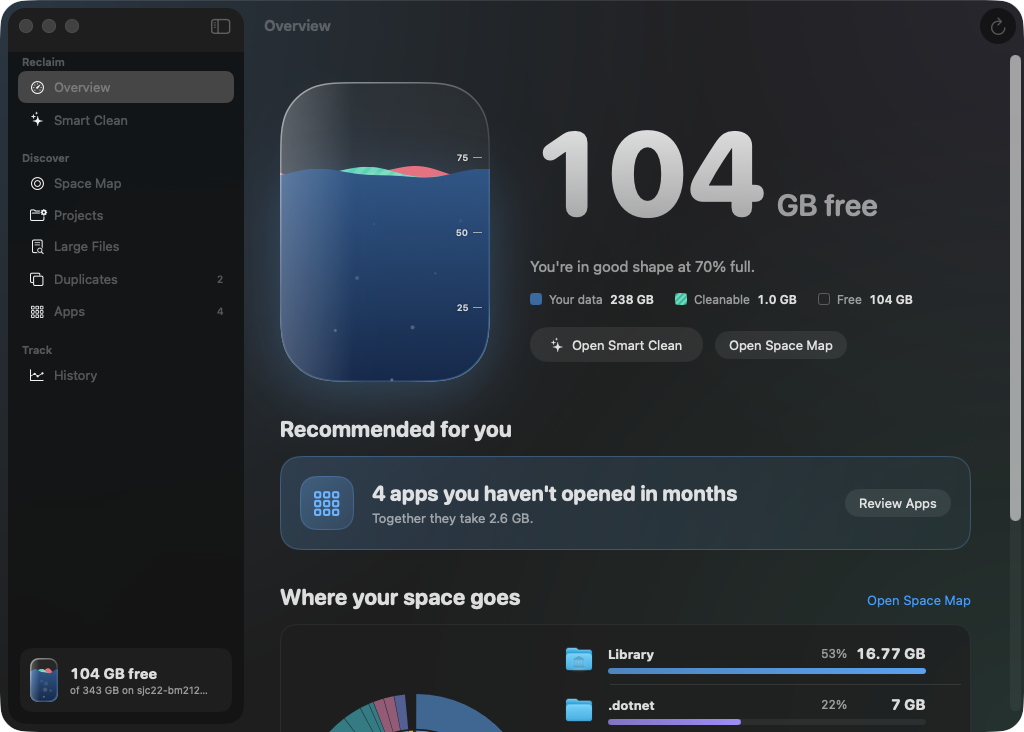
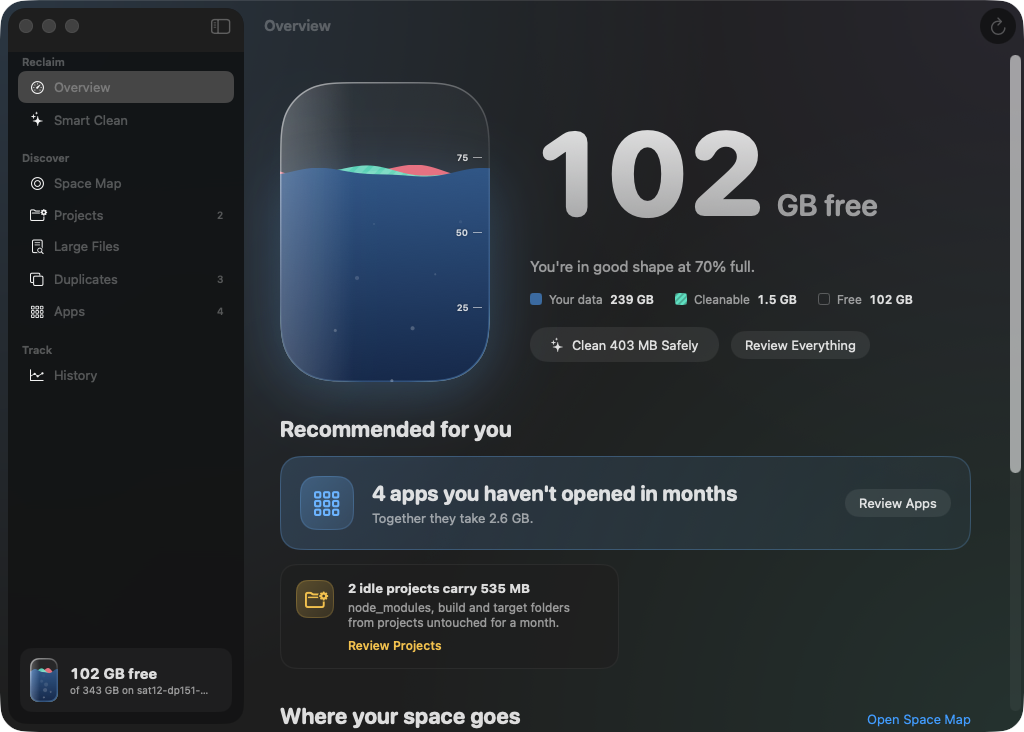
README: every feature with screenshots; small Projects polish
Rewrites the README around a full feature tour with fresh screenshots,
a table of what Smart Clean cleans, the rules behind each suggestion,
safety, install, shortcuts and development notes. Also adds the [app]
build step, lets Projects stat labels wrap, and stops artifact rows
repeating their own name.

Claude-Session: https://claude.ai/code/session_01NDBRRd62x9cHiXr3H445Zm

diff --git a/Sources/Reclaim/ProjectsView.swift b/Sources/Reclaim/ProjectsView.swift
@@ -141,7 +141,8 @@ struct StatTile: View {
                 Text(label)
                     .font(.callout)
                     .foregroundStyle(.secondary)
-                    .lineLimit(1)
+                    .lineLimit(2)
+                    .fixedSize(horizontal: false, vertical: true)
             }
             Spacer(minLength: 0)
         }
@@ -232,7 +233,8 @@ struct ArtifactRow: View {
             VStack(alignment: .leading, spacing: 2) {
                 Text(artifact.name)
                     .font(.system(.callout, design: .monospaced).weight(.semibold))
-                Text("\(artifact.kind.label). Rebuild with \(artifact.kind.rebuild).")
+                Text(artifact.kind.label == artifact.name ? "Rebuild with \(artifact.kind.rebuild)."
+                     : "\(artifact.kind.label). Rebuild with \(artifact.kind.rebuild).")
                     .font(.caption)
                     .foregroundStyle(.secondary)
             }

diff --git a/README.md b/README.md
@@ -1,42 +1,209 @@
 # Reclaim
 
-A native macOS app that shows what's filling your disk, explains it in plain language, and cleans it up safely.
+[![Build](https://github.com/whatron/reclaim/actions/workflows/build.yml/badge.svg)](https://github.com/whatron/reclaim/actions/workflows/build.yml)
+![macOS 14+](https://img.shields.io/badge/macOS-14%2B-blue)
+![Swift](https://img.shields.io/badge/SwiftUI-native-orange)
 
-Your disk is drawn as a glass vessel. Deep blue water is your data, the glowing mint shallows are what Reclaim can clear, coral is the Trash, and the air above is free space. Every cleanup drains the mint.
+**See what's filling your Mac, understand it, and get the space back safely.**
+
+Reclaim is a native SwiftUI app for people whose disk keeps filling up, especially developers with Docker images, AI models, `node_modules` and Xcode build data piling up in places Finder never shows. It measures everything, explains it in plain language, ranks what's worth clearing, and does the cleaning for you. Everything it removes goes to the Trash first.
 
 <p align="center">
-  <img src="docs/screenshots/overview-dark.png" width="49%" alt="Overview: the tide gauge, free space and ranked recommendations">
-  <img src="docs/screenshots/space-map-dark.png" width="49%" alt="Space Map: home folder as rings, with the inspector explaining Library">
+  <img src="docs/screenshots/overview-dark.png" alt="Reclaim's Overview: the tide gauge, 102 GB free, and ranked recommendations">
 </p>
+
+Your disk is drawn as a glass vessel. **Deep blue water** is your data, the **glowing mint shallows** are what Reclaim can clear, **coral** is the Trash, and the **air** above is free space. Every cleanup drains the mint.
+
+<p align="center"><sub>All screenshots were taken automatically on GitHub's macOS build machine, with a few demo code projects added, so the folders and apps shown are its own.</sub></p>
+
+---
+
+## Contents
+
+- [Features](#features)
+  - [Overview](#overview) · [Smart Clean](#smart-clean) · [Space Map](#space-map) · [Projects](#projects) · [Large Files](#large-files) · [Duplicates](#duplicates) · [Apps](#apps) · [History](#history-and-forecast) · [Menu bar and alerts](#menu-bar-and-alerts)
+- [How Reclaim decides](#how-reclaim-decides)
+- [Safety](#safety)
+- [Install](#install)
+- [Keyboard shortcuts](#keyboard-shortcuts)
+- [Development](#development)
+
+---
+
+## Features
+
+### Overview
+
+One screen that tells you where you stand.
+
+- **The tide gauge.** An animated vessel showing your data, what's cleanable, the Trash and free space. The water stays still if you turn on Reduce Motion.
+- **A plain summary**, such as *"You're in good shape at 70% full. The biggest cleanable item is Docker at 18 GB. You can safely reclaim 12 GB right now."*
+- **Recommended for you.** Suggestions ranked by how much space they'd free: idle projects, unused apps, old installers, unused AI models, the item that grew most this week, and when your disk will be full. Each comes with a one-click action.
+- **Where your space goes.** Your home folder's biggest items as mini rings and bars, each with a plain-language name.
+
+<p align="center"><img src="docs/screenshots/overview-light.png" width="70%" alt="Overview in light mode"></p>
+
+### Smart Clean
+
+One click clears everything that rebuilds itself.
+
+- Safe items over 50 MB are **ticked for you**. Anything that might still matter is grouped under *Worth a look* and never ticked automatically.
+- **A live bar** fills as you tick items, so you can see what you'll get back before you click.
+- **Growth badges** show how much an item grew or shrank in the past week.
+- A progress banner during the clean, a short celebration with the amount freed, and a lifetime total.
+- An option to empty the Trash afterwards. It asks you to type "empty" first.
+
 <p align="center">
-  <img src="docs/screenshots/smart-clean-light.png" width="49%" alt="Smart Clean: a live bar of everything ticked">
-  <img src="docs/screenshots/duplicates-dark.png" width="49%" alt="Duplicates: identical files with the copy to keep marked">
+  <img src="docs/screenshots/smart-clean-light.png" width="49%" alt="Smart Clean in light mode with the live bar">
+  <img src="docs/screenshots/smart-clean-dark.png" width="49%" alt="Smart Clean in dark mode">
 </p>
-<p align="center"><sub>Screenshots taken automatically on GitHub's macOS build machine, so the folders are its, not yours.</sub></p>
 
-## What it does
+What it knows how to clean:
 
-**Overview.** Free space at a glance, a one-sentence summary of where you stand, and recommendations ranked by how much space they'd free. Examples: "14 GB is safe to clear", "3 idle projects carry 9 GB", "Full in about 40 days".
+| Item | Where | How Reclaim cleans it | Ticked by default |
+| --- | --- | --- | --- |
+| Maven repository | `~/.m2/repository` | Moves contents to the Trash | Yes |
+| Gradle caches | `~/.gradle/caches` | Moves contents to the Trash | Yes |
+| npm cache | `~/.npm` | `npm cache clean --force` | Yes |
+| Go module cache | `~/go/pkg/mod` | `go clean -modcache` (Go makes these read-only) | Yes |
+| Homebrew leftovers | `~/Library/Caches/Homebrew` | `brew cleanup --prune=all` | Yes |
+| Xcode build data | `DerivedData` | Moves contents to the Trash | Yes |
+| iPhone debug symbols | `iOS DeviceSupport` | Moves contents to the Trash | Yes |
+| IntelliJ snapshots | `~/IdeaSnapshots` | Moves contents to the Trash | Yes |
+| Docker images and build cache | Colima or Docker Desktop disk | `docker system prune -af`, then `fstrim` inside Colima so the space actually comes back | No |
+| Ollama models | `~/.ollama/models` | `ollama rm`, model by model, with unused ones flagged | No |
+| App caches | `~/Library/Caches` | Moves contents to the Trash | No |
+| Command-line tool caches | `~/.cache` (pip, uv, Hugging Face…) | Moves contents to the Trash | No |
+| Unavailable simulators | `CoreSimulator` | `xcrun simctl delete unavailable` | No |
+| Trash | `~/.Trash` | Empties it after you type "empty" | No |
 
-**Smart Clean.** Caches and build output that rebuild themselves are ticked for you, and one click cleans them all. Items worth a closer look (Docker, Ollama models, app caches, simulators) are kept separate and never ticked automatically. Each row shows how much it grew this week.
+Items whose folders don't exist on your Mac are hidden, and an item whose tool isn't installed says so.
 
-**Space Map.** Your home folder as interactive rings, or as blocks if you prefer. Hover to identify anything, click to select it, and double-click to dive in. The inspector explains common folders (".colima is the VM behind Docker", "keep your Photos library") and says whether each one is safe to clear.
+### Space Map
 
-**Projects.** Finds `node_modules`, `target`, `build`, `.venv`, `Pods`, `.next` and friends inside your code projects. Projects you haven't touched for a month, judged by file and git activity, are ticked, and each folder shows the command that rebuilds it.
+Your home folder as interactive **rings** or **blocks**.
 
-**Large Files.** Everything over 100 MB, filed by type (videos, installers, archives, disk images), with when you last opened it. It flags installers and archives that are just sitting in Downloads.
+- **Two rings deep.** The inner ring is each folder in the current location, the outer ring is what's inside them, and big arcs are labelled.
+- **Hover** to identify anything, **click** to select, **double-click** to dive in, and click the **centre** to go back up.
+- **Mint** areas are things Smart Clean can clear.
+- **The inspector** explains what a folder is, whether it's safe to clear, and what's biggest inside, with buttons to open it, show it in Finder or move it to the Trash.
 
-**Duplicates.** Finds true copies by comparing contents (SHA-256), not names. It suggests which copy to keep and always leaves at least one.
+<p align="center">
+  <img src="docs/screenshots/space-map-rings.png" width="49%" alt="Space Map rings with the inspector">
+  <img src="docs/screenshots/space-map-blocks.png" width="49%" alt="Space Map blocks view">
+</p>
 
-**Apps.** Third-party apps by size and when you last opened them, with the ones you haven't used in three months picked out.
+Reclaim explains folders like `.colima` (the VM behind Docker), Docker Desktop's disk, `.m2`, `.gradle`, `.npm`, Go modules, Hugging Face models, `node_modules`, `.venv`, DerivedData, iPhone backups, iCloud Drive, Mail, Messages, your Photos library, Downloads and installers. Each one is marked *Safe to clear*, *Look before deleting* or *Keep*.
 
-**History.** An hourly record of free space, a forecast of when your disk fills up, what grew this week, and a log of every cleanup with the commands it ran.
+### Projects
 
-**Menu bar.** Free space at a glance and the top recommendation. Reclaim can warn you when space runs low.
+Finds forgotten dependencies and build output in your code.
 
-## Build and run
+- Scans your home folder for code projects and the folders they can rebuild.
+- A project you haven't touched in **30 days**, judged by its own files and its git activity, is marked *Idle* and ticked.
+- Each folder shows **the command that rebuilds it**, so nothing is a mystery.
 
-You need macOS 14 or later and Apple's developer tools (Xcode 16 or later, or the Command Line Tools).
+<p align="center"><img src="docs/screenshots/projects-dark.png" width="70%" alt="Projects with two idle projects ticked"></p>
+
+| Ecosystem | Folders |
+| --- | --- |
+| JavaScript / TypeScript | `node_modules`, `.next`, `.nuxt`, `.svelte-kit`, `.turbo`, `.angular`, `.parcel-cache` |
+| Rust | `target` (next to `Cargo.toml`) |
+| Java / Kotlin | Maven `target`, Gradle `build` and `.gradle` |
+| Scala | sbt `target` |
+| Python | `.venv`, `venv` (with `pyvenv.cfg`) |
+| iOS | CocoaPods `Pods` |
+| Flutter / Dart | `build`, `.dart_tool` |
+| C / C++ | CMake `build` |
+| .NET | `bin`, `obj` |
+| Terraform | `.terraform` |
+
+A folder only counts when it sits next to the file that proves it's a build folder (`package.json`, `Cargo.toml`, `pom.xml` and so on). A random folder named `build` is left alone.
+
+### Large Files
+
+Every file over **100 MB** in your home folder, found instantly with Spotlight.
+
+- Filter by **type**: videos, installers, archives, disk images, audio or other.
+- See **when you last opened it** ("never opened", "opened 3 days ago"), and sort by longest unopened.
+- **Smart notes** flag installers and archives sitting in Downloads, and files unopened for a year or more.
+- Tick several and move them to the Trash in one go.
+
+<p align="center"><img src="docs/screenshots/large-files-light.png" width="70%" alt="Large Files"></p>
+
+### Duplicates
+
+Finds **true copies** by comparing contents, not names.
+
+- Files of 20 MB or more are compared in three steps: same size, then the same first and last 64 KB, then the same SHA-256 hash.
+- For each set it suggests **which copy to keep**: the one outside Downloads, with the cleanest name (no "copy" or "(1)"), and the oldest.
+- It **always leaves at least one copy**, even if you tick them all.
+- It skips Library, `node_modules`, `.git` and the insides of app bundles and photo libraries.
+
+<p align="center"><img src="docs/screenshots/duplicates-dark.png" width="70%" alt="Duplicates with the copy to keep marked"></p>
+
+### Apps
+
+Your third-party apps by size and **when you last opened them**.
+
+- Apps over 100 MB that you haven't opened in **90 days** are flagged as unused, and one click ticks them all.
+- Apple's own apps aren't listed and can't be moved.
+- Your settings stay in Library, so reinstalling an app picks up where you left off.
+
+<p align="center"><img src="docs/screenshots/apps-light.png" width="70%" alt="Apps"></p>
+
+### History and forecast
+
+- Reclaim records free space **every hour** while it's running, including from the menu bar. It keeps two weeks of hourly readings and one per day for a year.
+- **A chart** of free space over time. Hover to read any point.
+- **A forecast.** A trend line over the last two weeks predicts the date your disk will be full.
+- **What changed this week**: every item that grew or shrank by more than 100 MB.
+- **An activity log** of every cleanup, with the exact output of each command it ran.
+
+### Menu bar and alerts
+
+- **The menu bar** shows free space. Click it for a panel with a mini gauge, the top recommendation, rescan, settings and quit.
+- **Low-space alerts** notify you when free space drops below 15 GB or 7%, at most once every six hours.
+- Close the window and Reclaim keeps watching from the menu bar. You can turn both off in Settings (⌘,).
+
+---
+
+## How Reclaim decides
+
+| Signal | Rule |
+| --- | --- |
+| Ticked in Smart Clean | Rebuilds itself, over 50 MB, and its tool is installed |
+| Idle project | No change to its own files or git for 30 days |
+| Unused app | Over 100 MB and not opened for 90 days (Spotlight's last-used date) |
+| Unused Ollama model | Not modified for 60 days |
+| Old installer | A `.dmg`, `.pkg` or similar, unopened for two weeks |
+| Growth badge | Changed by 100 MB or more since about a week ago |
+| Forecast | Least-squares trend of free space over 14 days, shown when the disk is shrinking by 50 MB a day or more |
+| Low-space alert | Under 15 GB or 7% free |
+
+Recommendations are ranked by the space they'd free. Warnings, such as a forecast that the disk will be full within 90 days, get a boost.
+
+## Safety
+
+- **Everything goes to the Trash first**, the same way Finder sends it, so **Put Back** works.
+- **Emptying the Trash** is the only permanent action, and you have to type "empty" to confirm it.
+- **A fixed set of commands.** Reclaim only runs these: `docker system prune -af` (volumes are kept), `colima ssh -- sudo fstrim -a`, `npm cache clean --force`, `go clean -modcache`, `brew cleanup --prune=all`, `xcrun simctl delete unavailable` and `ollama rm <model>`. Running a cleanup on its own shows the exact command before anything happens.
+- **Protected locations.** Your home folder, Library, Documents, Desktop, Downloads, Pictures, Movies and Music folders themselves, iCloud Drive, Mail, Messages, keychains, credential folders (`.ssh`, `.gnupg`, `.aws`, `.kube`), and the insides of Photos libraries and app bundles can never be trashed.
+- **Private.** Everything runs on your Mac. Nothing is uploaded, and there are no accounts or analytics.
+
+## Install
+
+You need **macOS 14 Sonoma or later**.
+
+### Download a build
+
+Every push is compiled on GitHub. Open the latest successful [Build run](https://github.com/whatron/reclaim/actions/workflows/build.yml) and download **Reclaim-app** (for Apple-silicon Macs; on an Intel Mac, build from source). Unzip it and drag **Reclaim** to Applications.
+
+The download isn't notarized, so the first time you open it, go to **System Settings → Privacy & Security** and click **Open Anyway**.
+
+### Build from source
+
+You need Xcode 16 or later, or the Command Line Tools (`xcode-select --install`).
 
 ```bash
 git clone https://github.com/whatron/reclaim.git
@@ -44,33 +211,43 @@ cd reclaim
 ./build.sh --install     # builds, copies to /Applications, opens it
 ```
 
-`./build.sh` alone builds into `build/Reclaim.app` and opens it from there. To work on the code in Xcode, open `Package.swift`.
-
-You can also skip building: every push is compiled on GitHub, and the **Build** run for a commit has a downloadable **Reclaim-app** zip. That download isn't notarized, so the first time, right-click the app and choose Open.
+`./build.sh` alone builds into `build/Reclaim.app` and opens it from there.
 
 ### First launch
 
 1. macOS asks whether Reclaim can read Documents, Desktop and Downloads. Allow it so those folders are measured.
 2. For exact numbers in Library, app containers and the Trash, turn on **Full Disk Access**: System Settings → Privacy & Security → Full Disk Access, then add Reclaim. Reclaim's banner takes you to the right page. Each rebuild changes the app's signature, so after rebuilding you may need to switch Full Disk Access off and on again.
 
-Keyboard: ⌘1–⌘8 switch pages, ⌘R rescans, ⇧⌘K cleans everything recommended, ⌘↑ goes up a folder in Space Map, ⌘⌫ moves the selection to the Trash, and ⌘↩ runs the clean on Smart Clean.
+## Keyboard shortcuts
 
-## Safety
+| Keys | Action |
+| --- | --- |
+| ⌘1 to ⌘8 | Overview, Smart Clean, Space Map, Projects, Large Files, Duplicates, Apps, History |
+| ⌘R | Rescan everything |
+| ⇧⌘K | Clean everything recommended |
+| ⌘↩ | Clean what's ticked (Smart Clean) |
+| ⌘↑ | Go up a folder (Space Map) |
+| ⌘⌫ | Move the selected item to the Trash (Space Map) |
+| ⌘, | Settings |
 
-- Files are moved to the Trash the same way Finder does it, so **Put Back** works.
-- Emptying the Trash is the only permanent action, and you have to type "empty" to do it.
-- The only commands Reclaim runs are a fixed set: `docker system prune -af` (volumes are kept), `colima ssh -- sudo fstrim -a`, `npm cache clean --force`, `go clean -modcache`, `brew cleanup --prune=all`, `xcrun simctl delete unavailable` and `ollama rm <model>`.
-- Your home folder, Library, Documents, Desktop, iCloud Drive, Mail, Messages, Photos and Music libraries, app bundles' insides, and credential folders such as `.ssh` and `.aws` can never be trashed.
-- Everything runs on your Mac. Nothing is uploaded anywhere.
+## Development
 
-## How the code is laid out
+To work on the code in Xcode, open `Package.swift`.
 
 | File | What's in it |
 | --- | --- |
-| `Model*.swift` | App state, cleanups, discovery scans, insights, forecasting, alerts |
-| `Shell.swift`, `System.swift` | Running commands, measuring with `du`, Trash, safety rules, Spotlight |
+| `Model.swift`, `Model+Clean.swift`, `Model+Discover.swift`, `Model+Smart.swift` | App state, cleanups, discovery scans, insights, forecasting, alerts |
+| `Shell.swift`, `System.swift` | Running commands, measuring with `du`, the Trash, safety rules, Spotlight |
 | `Scanners.swift`, `ProjectScanner.swift`, `DuplicateFinder.swift` | Large files, apps, code projects, duplicates |
 | `Knowledge.swift` | Plain-language explanations of common folders |
-| `History.swift` | Hourly snapshots, compaction and the fill-up forecast |
+| `History.swift` | Hourly snapshots, compaction and the forecast |
 | `Theme.swift`, `TideGauge.swift` | Colours, surfaces and the animated vessel |
 | `*View.swift`, `SpaceMap.swift` | One file per page; the rings and blocks charts |
+| `Tour.swift`, `Scripts/` | The automated screenshot tour used by the build check |
+
+### Build check
+
+`.github/workflows/build.yml` compiles the app on GitHub's macOS 26 runner on every push, uploads **Reclaim-app**, and publishes compiler errors and warnings as a **Compiler messages** check. Two words in a commit message switch on extras:
+
+- `[screenshots]` sets up a few demo code projects, photographs every page in dark and light mode, and pushes the pictures to the `screenshots` branch.
+- `[app]` pushes the built `Reclaim.zip` to the `app-build` branch.
